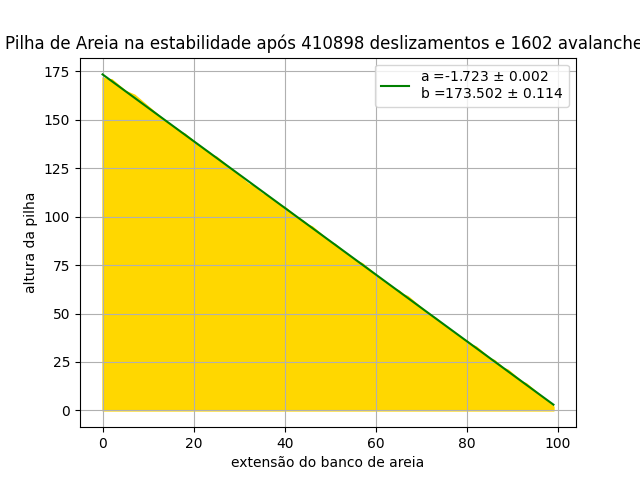
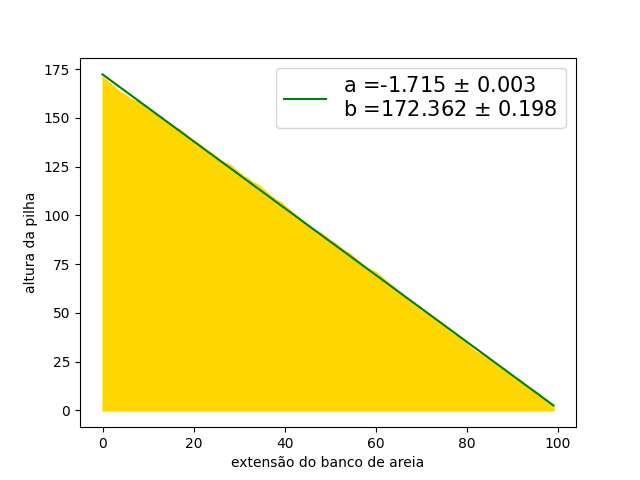
remove grid, title, and enhance label from graphs

diff --git a/sandpile.py b/sandpile.py
@@ -16,7 +16,7 @@ def Zcritico(L:int):
         z_critico.append(np.random.randint(2,4))
     return z_critico
 
-#tamanho máximo do banco de areia
+#tamanho máximo do banco de areiass
 L = 100            
 
 #altura de cada parte da pilha 
@@ -109,25 +109,21 @@ for i in range(0,len(magnitudeAvalanche)):
     if magnitudeAvalanche[i] != 0:
         listaAvalanche.append(magnitudeAvalanche[i])
 
+# print("Pilha de Areia na estabilidade após %i deslizamentos e %i avalanches" %(deslizamento, len(listaAvalanche)))
+# plt.fill_between(x,h, color ='gold')
+# plt.xlabel("extensão do banco de areia")
+# plt.ylabel("altura da pilha")
+# plt.legend()
+# plt.savefig('imagens\graficosFinais\Banco(g=%i)(p=%.3f).png' %(grao,p))
+# plt.show()
 
-plt.fill_between(x,h, color ='gold')
-plt.grid(True)
-plt.title("Pilha de Areia na estabilidade após %i deslizamentos e %i avalanches" %(deslizamento, len(listaAvalanche)))
-plt.xlabel("extensão do banco de areia")
-plt.ylabel("altura da pilha")
-plt.legend()
-plt.savefig('imagens\graficosFinais\Banco(g=%i)(p=%.3f).png' %(grao,p))
-plt.show()
-
-
+print("Pilha de Areia na estabilidade após %i deslizamentos e %i avalanches" %(deslizamento, len(listaAvalanche)))
 #criar gráfico da pilha de areia com o fit linear
 plt.fill_between(x,h, color ='gold')
 plt.plot(x_areiaFit,fitSand(x_areiaFit,a,b), color = "green", label = "a =%.3f $\pm$ %.3f \nb =%.3f $\pm$ %.3f" %(a,erra,b,errb))
-plt.grid(True)
-plt.title("Pilha de Areia na estabilidade após %i deslizamentos e %i avalanches" %(deslizamento, len(listaAvalanche)))
 plt.xlabel("extensão do banco de areia")
 plt.ylabel("altura da pilha")
-plt.legend()
+plt.legend(prop={'size': 15})
 plt.savefig('imagens\graficosFinais\BancoFit(g=%i)(p=%.3f).png' %(grao,p))
 plt.show()
 
@@ -152,17 +148,15 @@ errm = np.sqrt(pcov[0,0])
 errc = np.sqrt(pcov[1,1])
 
 
+print("Energia por grão de areia para p=%.2f, L=%i e %i grãos de areia" %(p,L,grao))
 #criar gráfico da relação da energia por grão de areia no sistema
 plt.plot(x_grao,energia, color ='green', label = "Dados" )
 plt.plot(x_grao_fit, y_fit, color = "orange", label = "a =%.3f $\pm$ %.3f \nb =%.3f $\pm$ %.3f" %(m,errm,c,errc))
-#plt.plot(x_grao_fit, yfit)
-plt.grid(True)
-plt.title("Energia por grão de areia para p=%.2f, L=%i e %i grãos de areia" %(p,L,grao))
 plt.xlabel("Número de grãos na pilha")
 plt.ylabel("energia da pilha")
 plt.xscale("log")
 plt.yscale("log")
-plt.legend()
+plt.legend(prop={'size': 15})
 plt.savefig('imagens\graficosFinais\Energia(L=%i)(p=%.3f).png' %(L,p))
 plt.show()
 

diff --git a/avalanches.py b/avalanches.py
@@ -7,24 +7,21 @@ def avalancheVariaBin(listaAvalanche):
 
     for i in bins:
         plt.hist(listaAvalanche,bins = i,ec = "k", density = True)
-        plt.title("Frequência de Avalanches por Energia (bins = %i)" %(i))
-        plt.grid(True)
+
         plt.xlabel("Tamanho da Avalanche (Energia)")
         plt.ylabel("Frequência Normalizada")
-        plt.savefig('imagens\graficosFinais\Freq(L=%i)(p=%.3f)(bins=%i).png' %(L,p,i))
+        plt.savefig('imagens\graficosFinais\FreqAvaEne(L=%i)(p=%.3f)(bins=%i).png' %(L,p,i))
         return plt.show()
 
 def AvalanchePorP(listaAvalanche, p, L):
 
-    # bin = mt.sqrt(len(listaAvalanche))
-    bin = 5
+    bin = mt.sqrt(len(listaAvalanche))
 
-    plt.hist(listaAvalanche,bins = int(bin),ec = "k", density = True)
-    plt.title("Frequência de Avalanches por Energia (bins = %i)" %(bin))
-    plt.grid(True)
+    plt.hist(listaAvalanche,bins = int(bin),ec = "k", density = True, label = 'bins=%i' %(bin))
     plt.xlabel("Tamanho da Avalanche (Energia)")
     plt.ylabel("Frequência Normalizada")
-    plt.savefig('imagens\graficosFinais\Freq(L=%i)(p=%.3f).png' %(L,p))
+    plt.legend(prop={'size': 15})
+    plt.savefig('imagens\graficosFinais\FreqAvaEne(L=%i)(p=%.3f).png' %(L,p))
     return plt.show()
 
 
@@ -33,8 +30,10 @@ def AvalanchePorP_semiLogHist(listaAvalanche, p, L):
     bin = mt.sqrt(len(listaAvalanche))
     hist, bins = np.histogram(listaAvalanche, bins=int(bin))
     logbins = np.logspace(np.log10(bins[0]),np.log10(bins[-1]),len(bins))
-    plt.title("Frequência de Avalanches por Energia (bins = %i) (p = %.2f)" %(bin, p))
-    plt.hist(listaAvalanche, bins=logbins)
+    plt.hist(listaAvalanche, bins=logbins, label = 'bins=%i' %(bin))
     plt.xscale('log')
-    plt.savefig('imagens\graficosFinais\HistSLogFreq(p=%.3f).png' %(p))
+    plt.xlabel("Tamanho da Avalanche (Energia)")
+    plt.ylabel("Frequência")
+    plt.legend(prop={'size': 15})
+    plt.savefig('imagens\graficosFinais\HistSLogFreqAvaEne(p=%.3f).png' %(p))
     plt.show()

diff --git a/plotcoefsenergia.py b/plotcoefsenergia.py
@@ -18,11 +18,10 @@ errb = np.sqrt(pcov[1,1])        #erro do coeficiente linear
 errc = np.sqrt(pcov[2,2])
 
 
+print("Coefientes angulares dos plots de energia pela probabilidade")
 plt.scatter(ps,slopes, color = "dodgerblue", label = "dados")
 plt.plot(psfit,fitSand(psfit,a,b,c), color = "crimson", label = "a =%.3f $\pm$ %.3f \nb =%.3f $\pm$ %.3f \nc =%.3f $\pm$ %.3f" %(a,erra,b,errb,c,errc))
-plt.grid(True)
-plt.title("Coefientes angulares dos plots de energia pela probabilidade")
 plt.xlabel("Probabilidade de um grão sair da pilha")
 plt.ylabel("Coeficiente angular da energia por grão de areia")
-plt.legend()
+plt.legend(prop={'size': 15})
 plt.show()

diff --git a/slopes.py b/slopes.py
@@ -44,12 +44,11 @@ def slope_graph(x,y, erry, save_path:str, x_label:str, y_lim:bool):
     plt.scatter(x,slopes,color='red')
     plt.plot(x,fit(x,a,b), color = "green", label = "a =%.6f $\pm$ %.6f \nb =%.3f $\pm$ %.3f" %(a,erra,b,errb))
     plt.errorbar(x, slopes, yerr=errory, fmt="o")
-    plt.grid(True)
     if y_lim == True:
         plt.ylim(-1.9,-1.5)
     plt.xlabel(x_label)
     plt.ylabel("slopes (a)")
-    plt.legend()
+    plt.legend(prop={'size': 15})
     plt.savefig(save_path)
     return plt.show()
 
